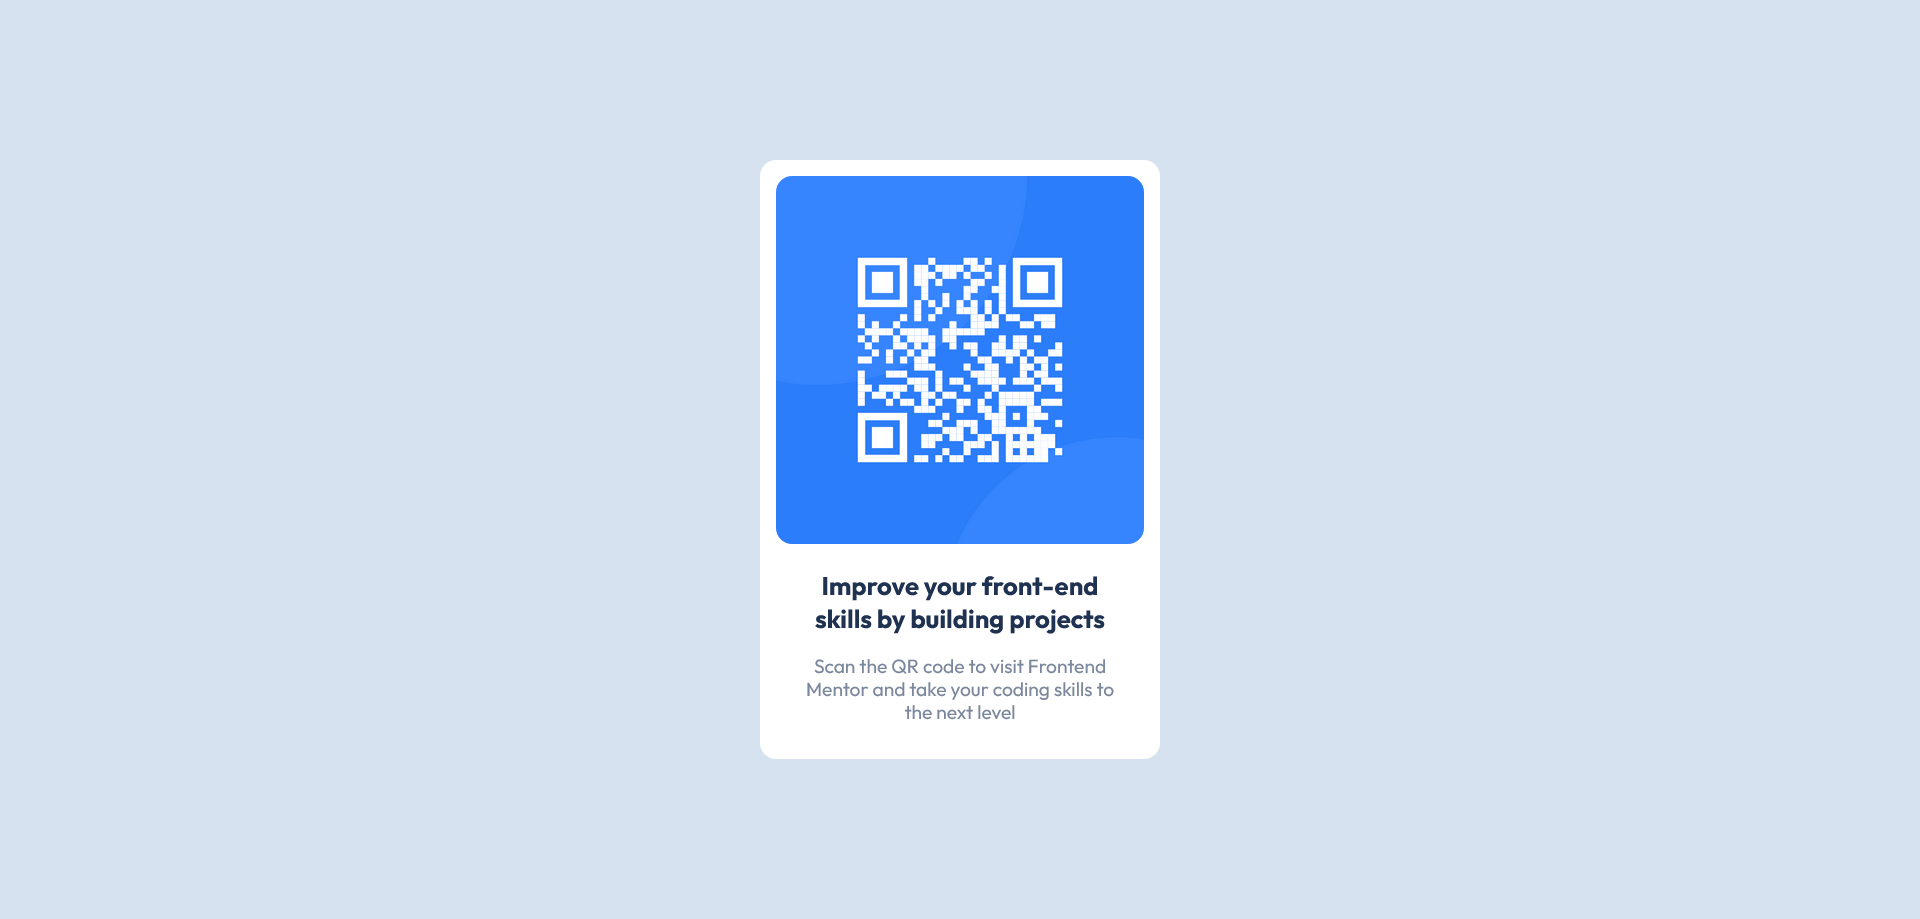
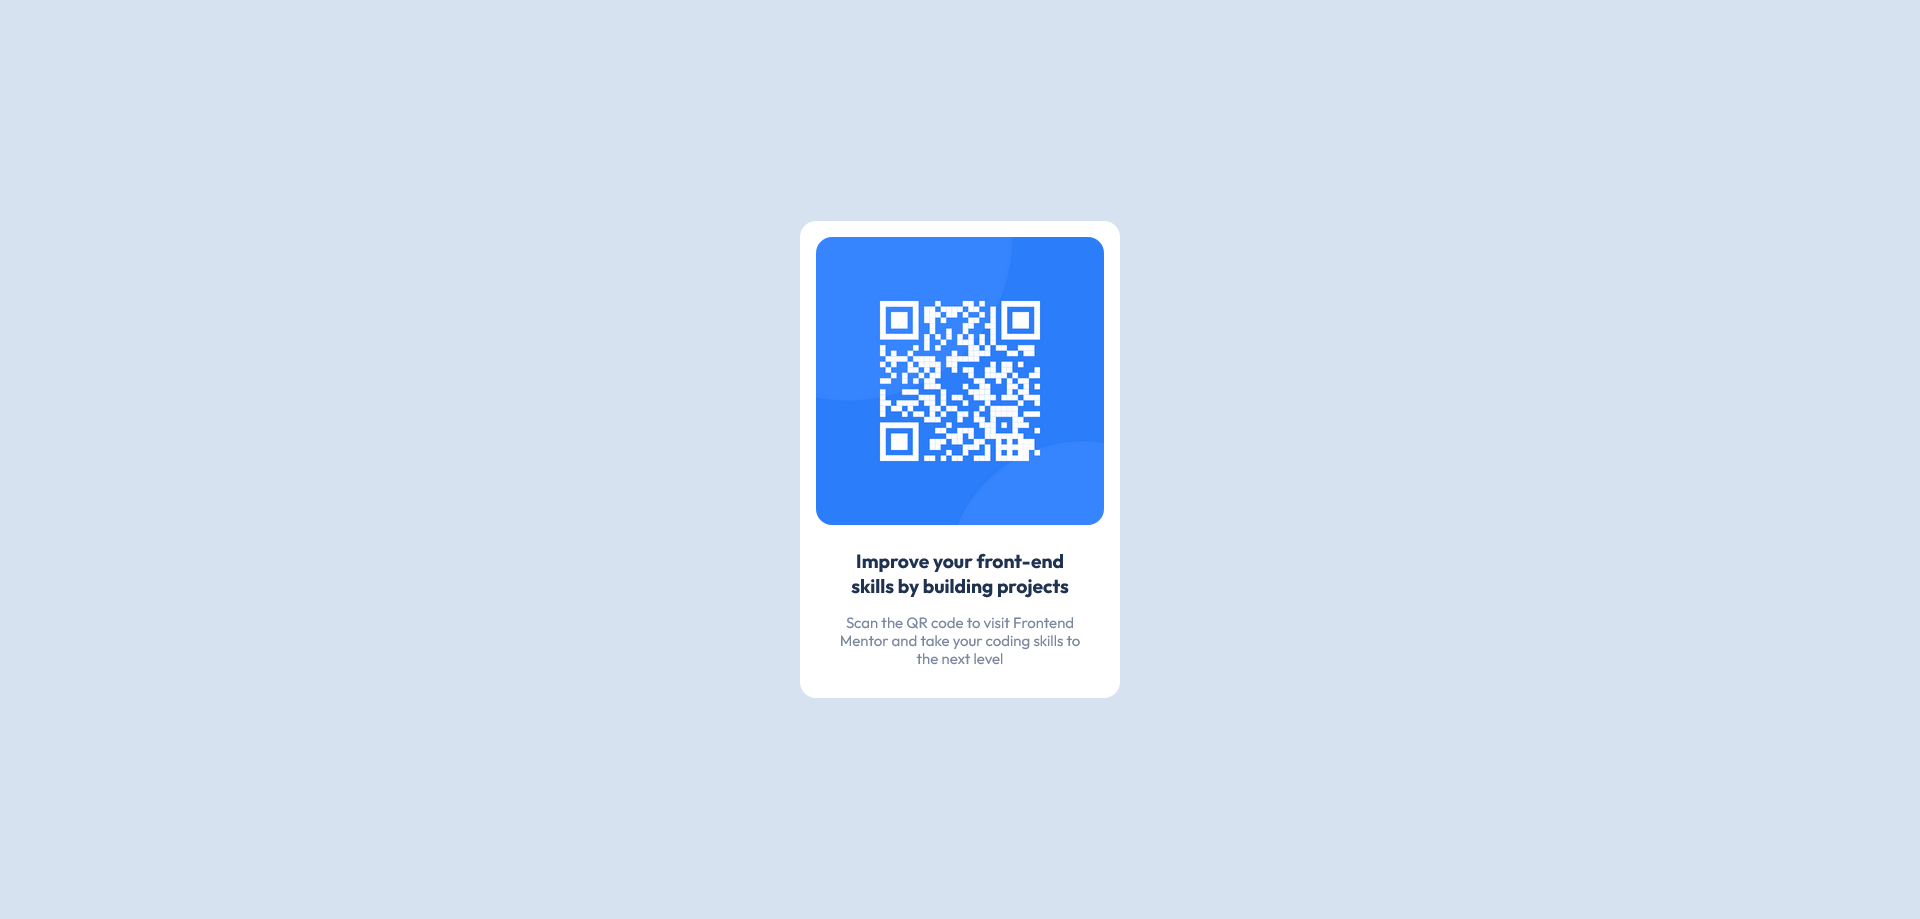
refactor the width of the component to be more like in the design

Changed region(s): [[0.375, 0.1523, 0.625, 0.8531]]

diff --git a/style.css b/style.css
@@ -14,12 +14,6 @@
     --fs-500: 1.125rem;
     --fs-600: 1.2rem;
     --fs-700: 1.6rem;
-
-    --spc-200: 0.5rem;
-    --spc-400: 1rem;
-    --spc-600: 1.4rem;
-    --spc-700: 1.5rem;
-    --spc-800: 1.7rem;
 }
 
 *,
@@ -61,7 +55,7 @@ body {
     flex-direction: column;
     align-items: center;
     padding: 1rem;
-    max-width: 25rem;
+    max-width: 20rem;
     background: var(--clr-neutral-100);
     text-align: center;
     border-radius: var(--boder-radius);
@@ -89,13 +83,5 @@ body {
 @media (min-width: 28rem) {
     body {
         margin: 0;
-    }
-
-    .title {
-        font-size: var(--fs-700);
-
-    }
-    .description {
-        font-size: var(--fs-600);
     }
 }
